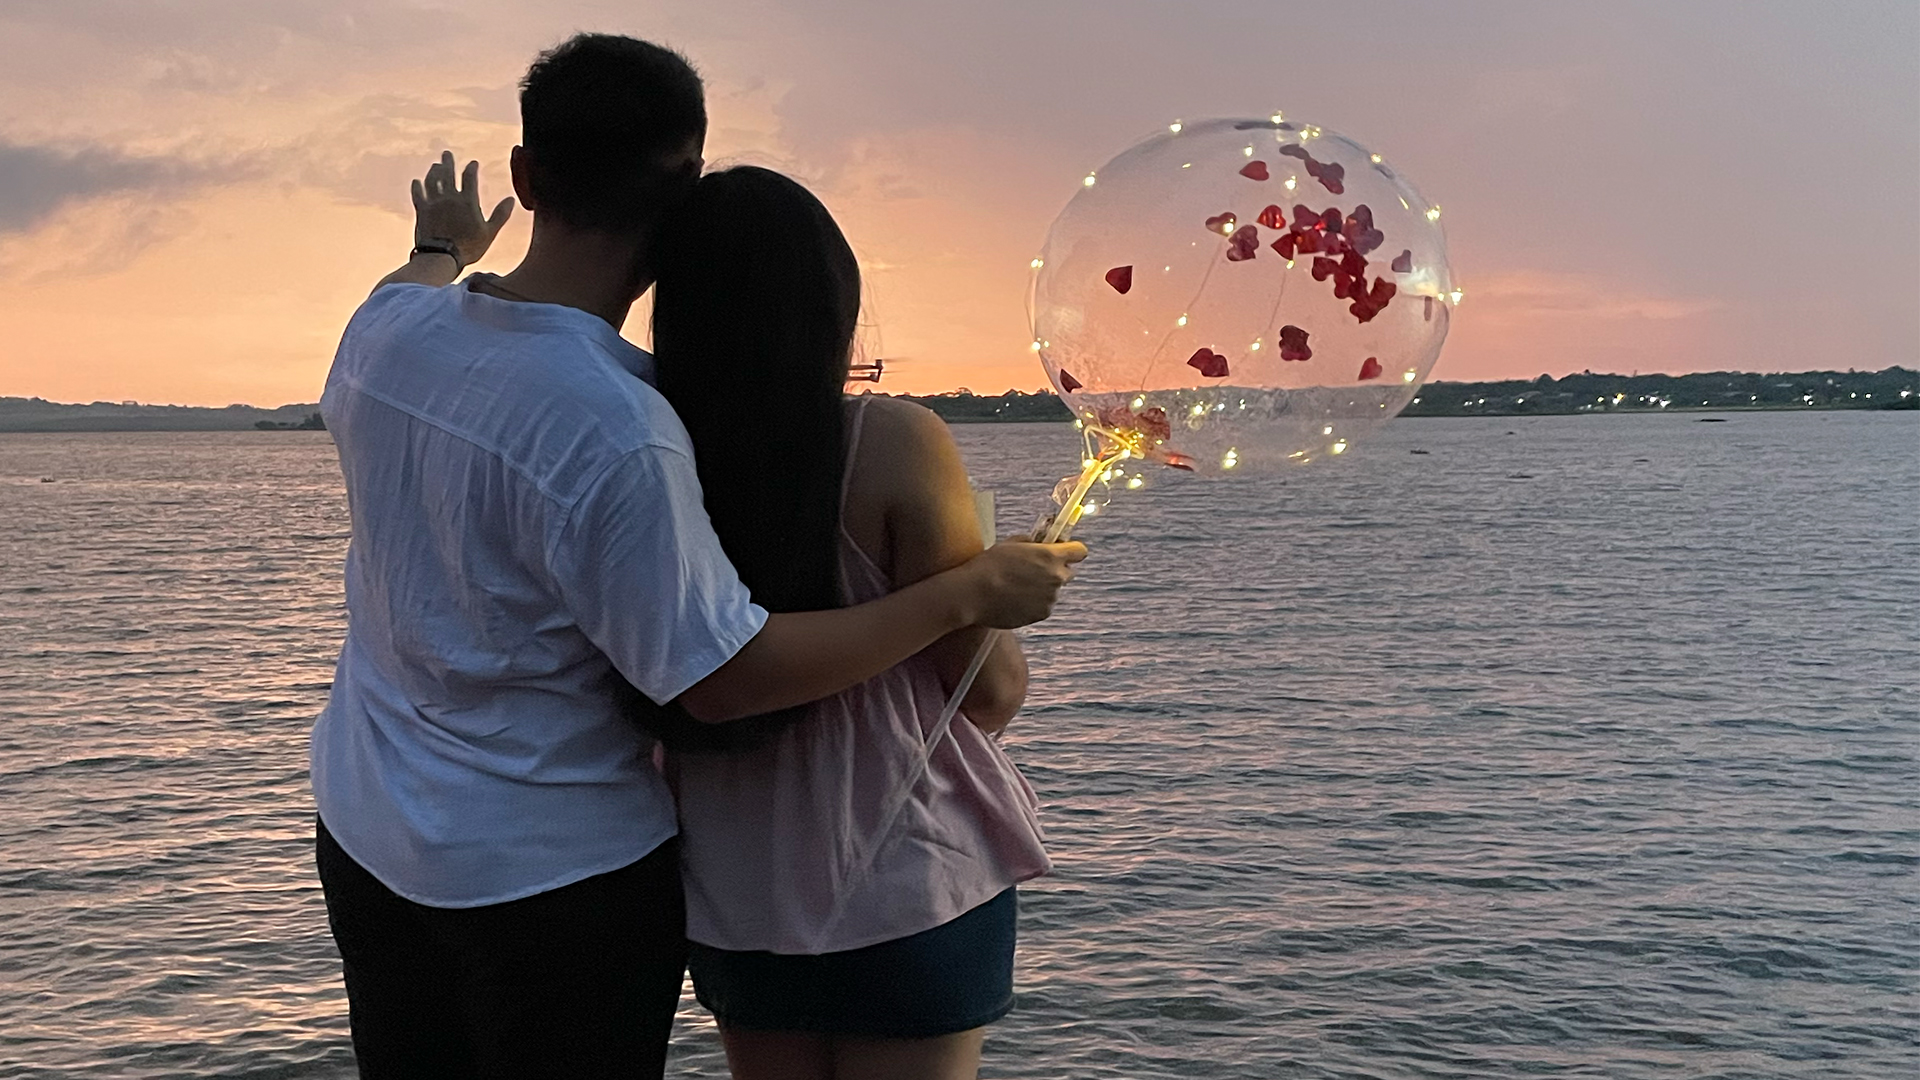
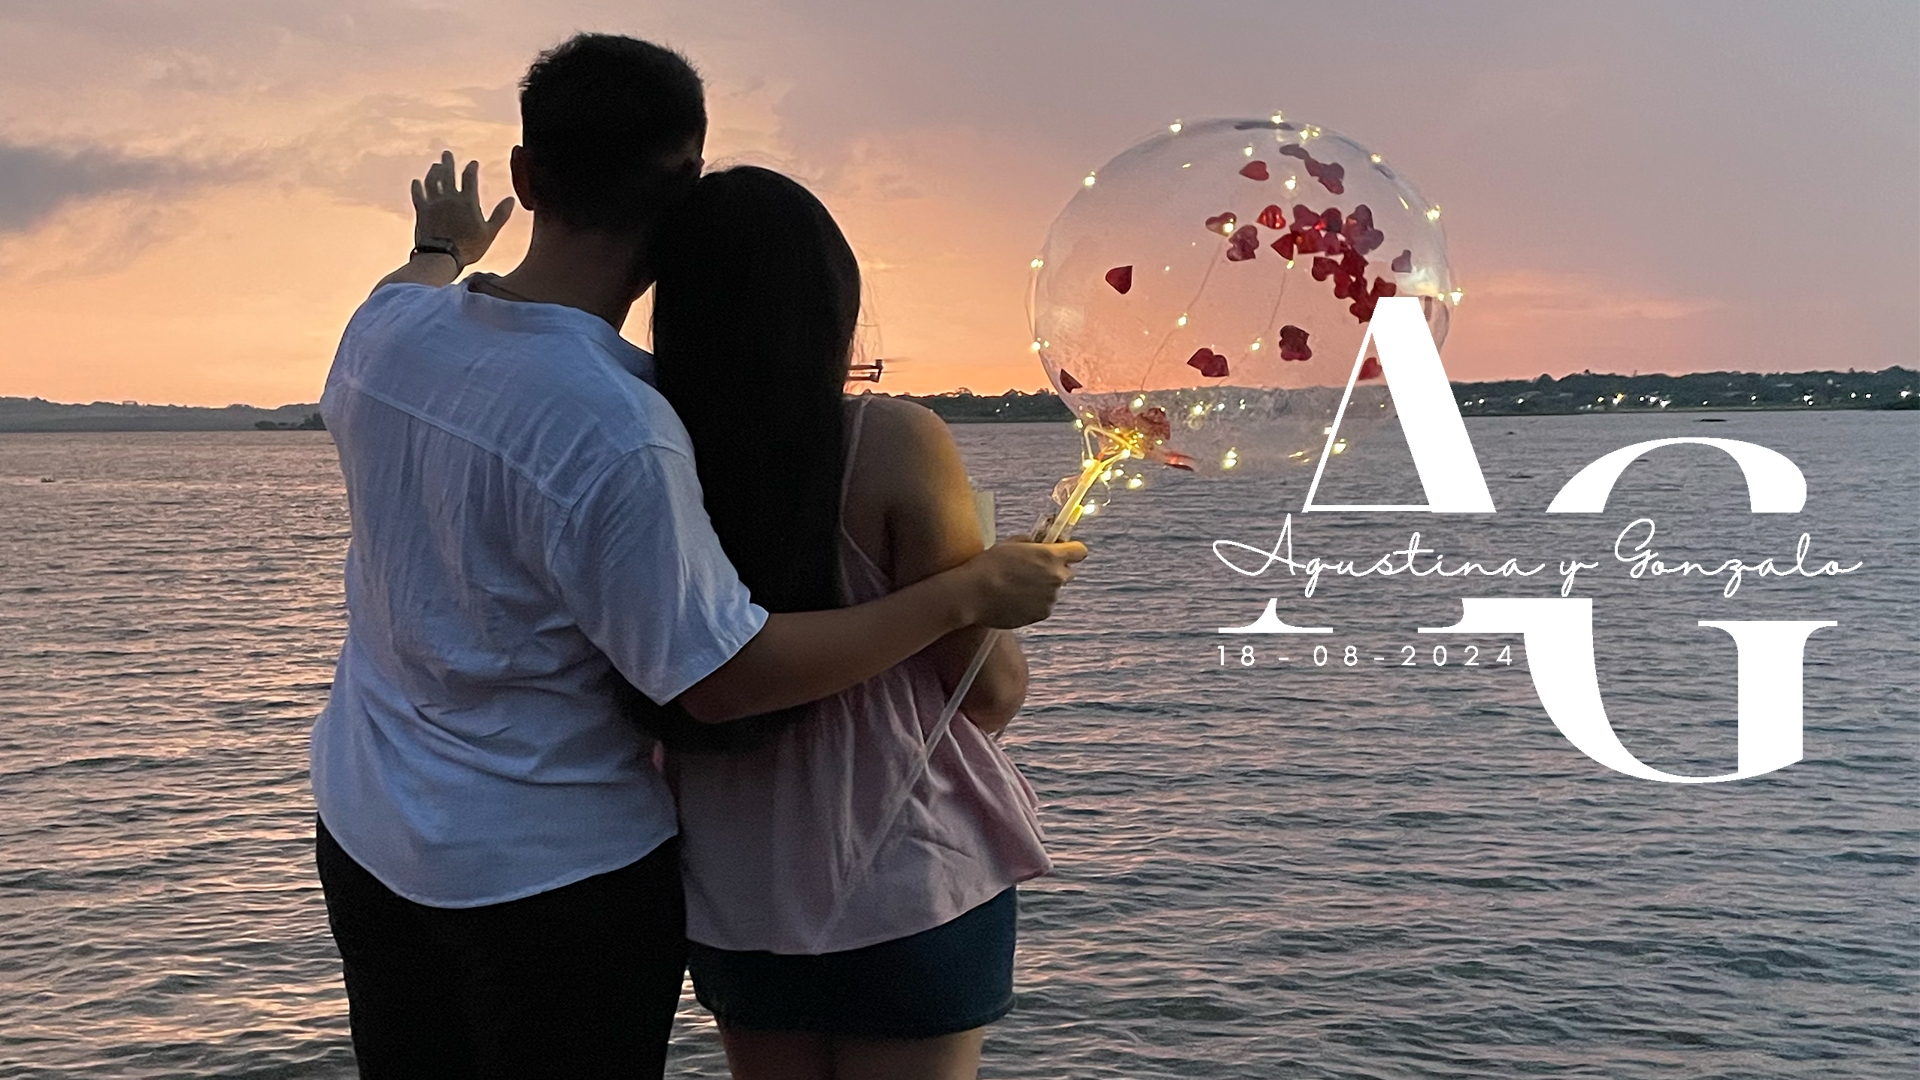
segundos cambios, media queries

Changed region(s): [[0.625, 0.275, 0.9688, 0.7333], [0.8438, 0.3972, 0.9375, 0.4889], [0.8125, 0.4278, 0.8438, 0.4889]]

diff --git a/css/styles.css b/css/styles.css
@@ -24,19 +24,7 @@ body {
     background-size: cover;
     background-position: center;
     color: white;
-    text-align: center; /* Alinear todo el texto al centro horizontalmente */
-    padding: 100px 0; /* Ajusta el padding según sea necesario */
     min-height: 800px;
-}
-
-#banner1 h1, #banner1 h2 {
-    font-family: TheWeddingSignature, sans-serif;
-    font-size: 100px;
-    font-weight: bold;
-    text-shadow: 2px 2px 4px rgba(0, 0, 0, 0.5); /* Sombra de texto para mejorar la legibilidad */
-    padding: 2%;
-    display: block; /* Cambia el display a bloque para que estén en líneas separadas */
-    margin: 0 auto; /* Centra horizontalmente los elementos de texto */
 }
 
 .custom-button {
@@ -96,13 +84,67 @@ body {
     color: #333; /* Color del texto */
 }
 
-@media (max-width: 576px) {
-    /* Estilos específicos para dispositivos móviles */
+.countdown-container {
+    font-family: TheWeddingSignature, sans-serif;
+    font-size: 100px;
+    font-weight: bold;
+    color: #333;
+    text-align: center;
+    margin-top: 50px; /* Ajusta el margen superior según sea necesario */
+    margin-bottom: 40px;
+    padding: 15px;
+    border-radius: 10px;
+    background-color: #f3f3f3;
+    /*display: inline-block;*/
+    margin-left: auto;
+    margin-right: auto;
+}
+
+/* Estilo base del botón genérico */
+.generic-button {
+    margin-top: 20px;
+    margin-bottom: 60px;
+    font-family: TheWeddingSignature, sans-serif;
+    background-color: #e0c7c7; /* Color de fondo */
+    /*border: 2px solid #007bff; /* Borde sólido */
+    border-radius: 20px; /* Borde redondeado */
+    color: rgb(0, 0, 0); /* Color del texto */
+    padding: 5px 20px; /* Espaciado interno */
+    text-align: center; /* Alineación del texto */
+    text-decoration: none; /* Elimina la subrayado */
+    display: inline-block; /* Elemento en línea */
+    font-size: 100px; /* Tamaño de fuente */
+    cursor: pointer; /* Cambia el cursor al pasar */
+    transition-duration: 0.4s; /* Duración de la transición */
+}
+
+/* Cambio de estilo al pasar el mouse */
+.generic-button:hover {
+    background-color: #d69494; /* Color de fondo al pasar el mouse */
+    border-color: #d69494; /* Color del borde al pasar el mouse */
+}
+/* Estilo del contenedor del botón */
+.button-container {
+    text-align: center; /* Centra horizontalmente el contenido */
+}
+
+@media (max-width: 768px) {
     #banner1 {
-        padding: 50px 0; /* Reducir el padding para dispositivos móviles */
+        min-height: 300px; /* Ajustar altura del banner para dispositivos móviles */
     }
 
-    #banner1 h1 {
-        font-size: 24px; /* Reducir el tamaño de fuente para dispositivos móviles */
+    .nombres h1 {
+        font-size: 600%; /* Reducir tamaño de fuente para dispositivos móviles */
+        margin-bottom: 5px; /* Ajustar margen inferior */
+    }
+
+    .nombres p {
+        font-size: 120%; /* Reducir tamaño de fuente para dispositivos móviles */
+    }
+
+    .countdown-container {
+        font-size: 60px; /* Reducir tamaño de fuente para dispositivos móviles */
+        margin-top: 10px; /* Ajustar margen superior */
+        margin-bottom: 10px; /* Ajustar margen inferior */
     }
 }

diff --git a/index.html b/index.html
@@ -12,13 +12,6 @@
 <body>
     <section id="banner1">
         <div class="container">
-            <div class="row">
-                <div class="col-md-6"></div>
-                <div class="col-md-6 text-md-right text-center">
-                    <h1>Nuestra Boda</h1>
-                    <h2>A & G</h2>
-                </div>
-            </div>
         </div>
     </section>
 
@@ -39,7 +32,7 @@
 
     <div class="container">
         <div class="row justify-content-center">
-            <div class="col-md-6">
+            <div class="col-md-10">
                 <p class="versiculo-texto">
                     Lorem ipsum dolor sit amet, consectetur adipiscing elit. Praesent tincidunt tellus non lectus
                     bibendum, ut volutpat metus tempor. Nunc sagittis id ipsum vel eleifend. Mauris et metus egestas,
@@ -85,10 +78,10 @@
 
     <div class="container">
         <div class="row justify-content-center">
-            <div class="col-md-6">
+            <div class="col-md-10">
                 <div class="palabras">
                     <h2>
-                        Queridos amigos y familiares
+                        QUERIDOS AMIGOS Y FAMILIARES
                     </h2>
                     <p>
                         Con alegría y emoción, queremos compartir con ustedes la noticia de que hemos decidido unir
@@ -101,7 +94,16 @@
         </div>
     </div>
 
+    <div class="countdown-container" id="countdown"></div>
 
+    <div class="button-container">
+        <button class="generic-button">Confirma tu asistencia</button>
+    </div>
+    
+    <iframe
+        src="https://www.google.com/maps/embed?pb=!1m18!1m12!1m3!1d14168.031689230682!2d-55.964377264416484!3d-27.406682293816395!2m3!1f0!2f0!3f0!3m2!1i1024!2i768!4f13.1!3m3!1m2!1s0x9457bdf592a921f3%3A0x6c18a29c4644369b!2sQuinta%20Constanza!5e0!3m2!1ses-419!2sar!4v1713312986187!5m2!1ses-419!2sar"
+        width="100%" height="300" style="border:0;" allowfullscreen="" loading="lazy"
+        referrerpolicy="no-referrer-when-downgrade"></iframe>
 
 
 

diff --git a/js/script.js b/js/script.js
@@ -10,3 +10,31 @@ function togglePlayPause() {
         playIcon.innerHTML = '<path d="M8 5v14l11-7z" fill="white"/>';
     }
 }
+
+// Definir la fecha objetivo (18 de agosto)
+var targetDate = new Date('August 18, 2024 00:00:00').getTime();
+
+// Función para actualizar la cuenta regresiva
+function updateCountdown() {
+    // Obtener la fecha y hora actual
+    var currentDate = new Date().getTime();
+
+    // Calcular la diferencia entre la fecha objetivo y la fecha actual
+    var difference = targetDate - currentDate;
+
+    // Calcular los días, horas, minutos y segundos restantes
+    var days = Math.floor(difference / (1000 * 60 * 60 * 24));
+    var hours = Math.floor((difference % (1000 * 60 * 60 * 24)) / (1000 * 60 * 60));
+    var minutes = Math.floor((difference % (1000 * 60 * 60)) / (1000 * 60));
+    var seconds = Math.floor((difference % (1000 * 60)) / 1000);
+
+    // Mostrar la cuenta regresiva en el elemento HTML
+    document.getElementById('countdown').innerHTML = days + ' días, ' + hours + ' horas, ' + minutes + ' minutos, ' + seconds + ' segundos';
+
+    // Actualizar la cuenta regresiva cada segundo
+    setTimeout(updateCountdown, 1000);
+}
+
+// Llamar a la función para iniciar la cuenta regresiva
+updateCountdown();
+
